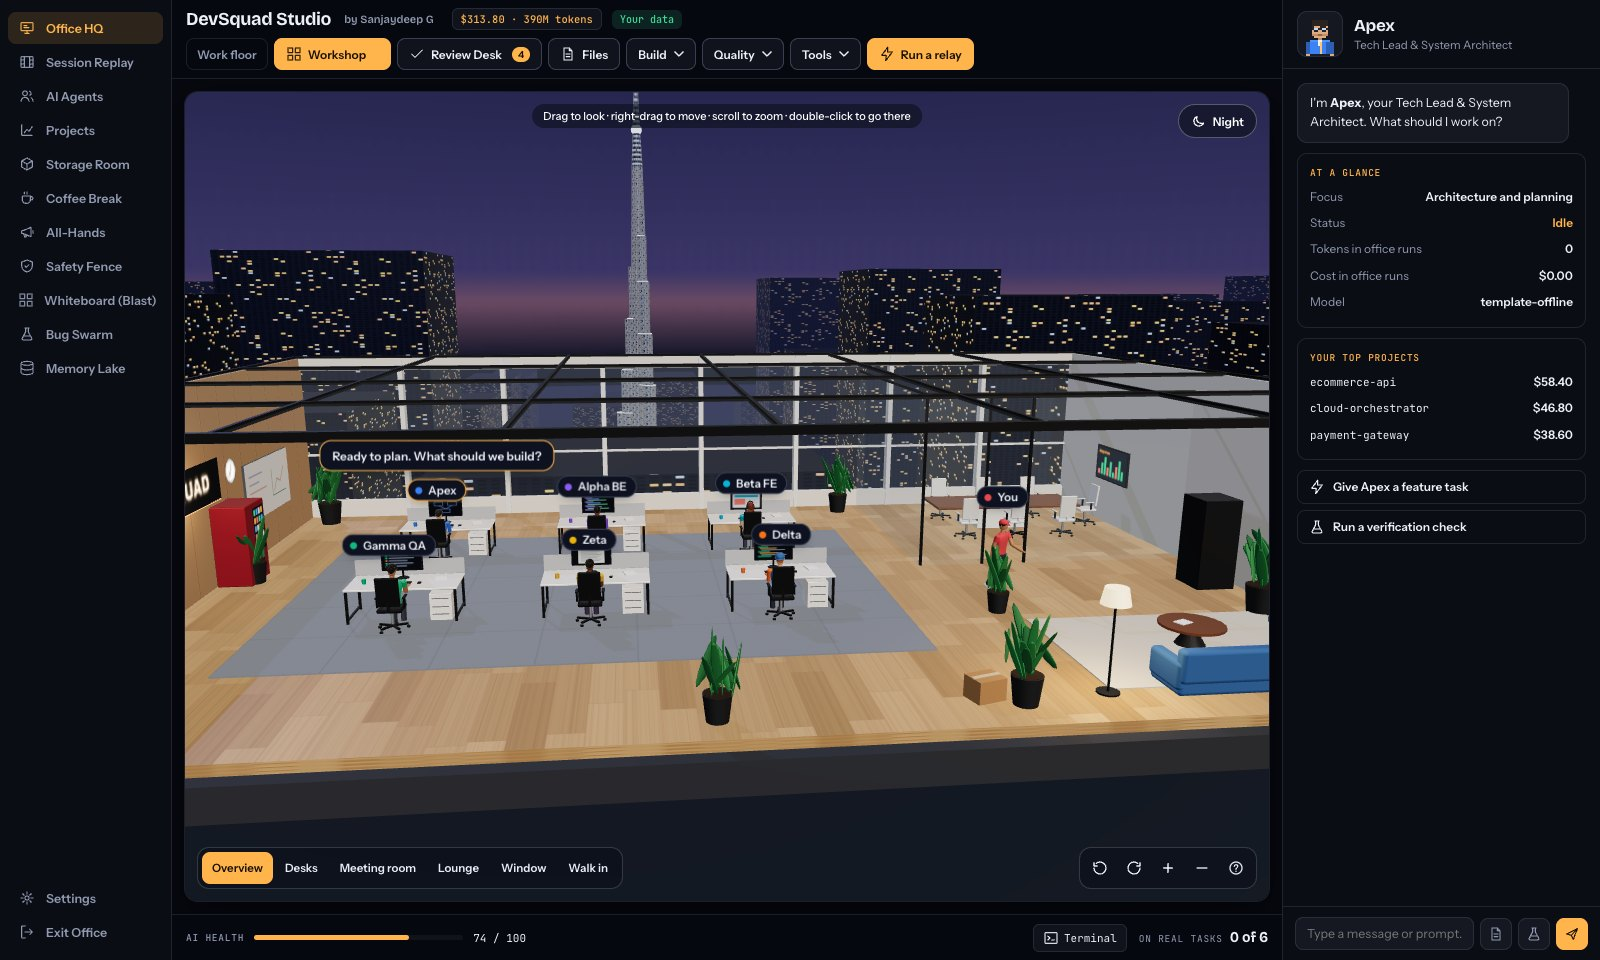
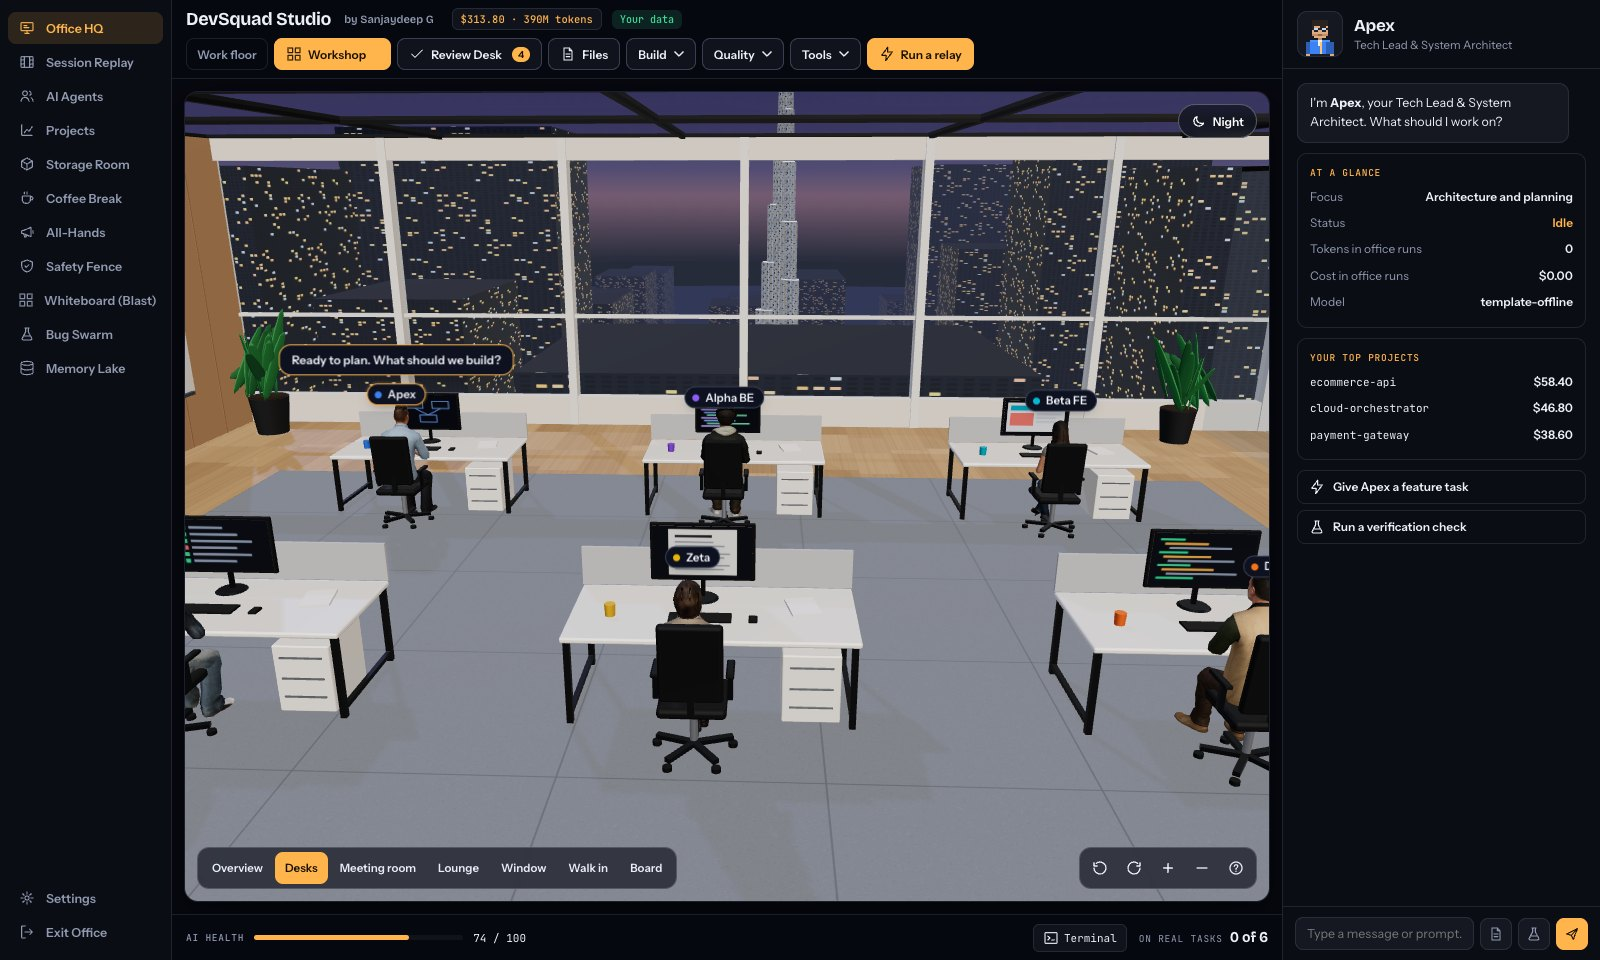
docs: screenshots and notes for real people, the wall board, desk cards and export

diff --git a/README.md b/README.md
@@ -10,7 +10,7 @@
 **[▶ Open Live Interactive Demo](https://sanjaydep1996.github.io/devsquad/)** *(runs 100% in-browser with live animated agents, Review Desk, and Whiteboard)*
 
 <p align="center">
-  <img src="docs/screenshot-office.jpg" alt="DevSquad Studio: the 3D office at night, with the team at their desks and the Burj Khalifa behind the glass" width="100%" />
+  <img src="docs/screenshot-office.jpg" alt="DevSquad Studio: the 3D office at night, with realistic, rigged people working at their desks and the city behind the glass" width="100%" />
 </p>
 
 ---
@@ -36,13 +36,26 @@ Current AI coding tools fall into two frustrating extremes:
 ## 🏢 Interactive Virtual Office & Features
 
 <p align="center">
-  <img src="docs/screenshot-office-day.jpg" alt="The same office in day mode, with Apex's status on the right and the Build, Quality and Tools menus in the topbar" width="100%" />
+  <img src="docs/screenshot-office-day.jpg" alt="The whole office in day mode, with the task board on the left wall and the Build, Quality and Tools menus in the topbar" width="100%" />
 </p>
 
-DevSquad combines real terminal execution with a **3D office** you can walk into (the **2D Pixel Office** is the fallback where WebGL isn't available). Jump to **Overview**, **Desks**, **Meeting room**, **Lounge**, **Window** or **Walk in** at eye level; drag to look, right-drag to move, scroll to zoom toward the pointer, and double-click a spot to go there or a person to see their face. With the office focused, **W A S D** or the arrow keys walk, **Q E** turn, **+ -** zoom and **1-6** pick a view. The team moves like people do: they keep right in the aisles, take coffee and whiteboard breaks, and **You** walk the floor checking in on whoever is working. The topbar keeps the everyday actions in view (**Workshop**, **Review Desk**, **Files**, **Run a relay**) and groups the other tools under **Build**, **Quality** and **Tools**:
+DevSquad combines real terminal execution with a **3D office** you can walk into (the **2D Pixel Office** is the fallback where WebGL isn't available). Jump to **Overview**, **Desks**, **Meeting room**, **Lounge**, **Window**, **Walk in** at eye level, or the **Board**; drag to look, right-drag to move, scroll to zoom toward the pointer, and double-click a spot to go there or a person to see their face. With the office focused, **W A S D** or the arrow keys walk, **Q E** turn, **+ -** zoom and **1-7** pick a view. The team moves like people do: they keep right in the aisles, take coffee and whiteboard breaks, and **You** walk the floor checking in on whoever is working.
 
-### 1. 🔍 Interactive Blast-Radius Visualizer (On the Office Whiteboard)
-Click directly on the **Whiteboard** on the office back wall or click **Build → Blast Radius** in the topbar to inspect AST dependencies:
+- **Real people**: the team are rigged, realistic people from Microsoft's Rocketbox library (MIT licence), with recorded motion for walking, sitting at a desk, typing, talking, listening, presenting, drinking coffee and reading a phone. Pick your own look in Settings. Where the models can't load, the drawn people are used instead.
+- **The task board is on the wall**: the Workshop's real board, as sticky notes on the whiteboard. When a card moves to In progress, its owner walks over to pick it up, then goes back to their desk to work on it.
+- **Click a desk or a person** for their status: their card, what's next, their last run, the ETA and any blockers, from the same recorded facts as the chat's status answers.
+
+<p align="center">
+  <img src="docs/screenshot-people.jpg" alt="A close-up of Apex, a rigged, realistic person, sitting at a desk" width="49%" />
+  <img src="docs/screenshot-desk-card.jpg" alt="Apex's desk card: what they're working on, their card, last run, ETA and blockers" width="49%" />
+</p>
+<p align="center">
+  <img src="docs/screenshot-board-wall.jpg" alt="The task board on the office wall, with cards as sticky notes in Backlog, In progress, Review Desk and Merged" width="100%" />
+</p>
+ The topbar keeps the everyday actions in view (**Workshop**, **Review Desk**, **Files**, **Run a relay**) and groups the other tools under **Build**, **Quality** and **Tools**:
+
+### 1. 🔍 Interactive Blast-Radius Visualizer
+Click **Build → Blast Radius** in the topbar to inspect AST dependencies:
 - **Direct Modifications (Amber)**: Code units being added or edited.
 - **Caller / Consumer Risks (Red)**: Existing files and functions in the repo that import or call the modified components.
 - **Active Test Coverage (Green)**: Verified test suites guarding the callers.
@@ -211,7 +224,8 @@ devsquad rollback <task_id>
 ### 2. 🔮 Flight Recorder & Incident Blackbox (Interactive RCA & Time Machine)
 - **Session ledger**: Every relay stage (plan, code, tests, healing, staging) is recorded to an append-only JSONL file in `.devsquad/flight_recorder/`.
 - **Time Machine Scrubber**: Step backward or forward through a run to see what each agent did and which files changed.
-- **Factual post-mortems**: A failed run gets a report built only from what was recorded: what failed, where, the last change before it, and the timeline. It says plainly when the root cause isn't known.
+- **Factual post-mortems**: Pick a run and write its post-mortem, built only from what was recorded: what failed, where, the test command, the files changed and the timeline. It says plainly when the root cause isn't known, and when nothing failed.
+- **Save as Markdown or PDF**: post-mortems, run replays (Session Replay) and plans (Workshop) download as `.md` or `.pdf`. The PDF writer uses the standard library only.
 
 ### 3. 🧬 Autonomous Git Bisect & Regression Teleporter
 - **Real binary search**: Runs your own test command on past commits, in a scratch git worktree, to find the first commit where it fails. Each commit has a time limit.
@@ -236,6 +250,7 @@ Click **Workshop** in the topbar. Everything below works in template mode and ge
 ### 2. 🗺 Plan, then build
 - Describe a feature. Apex proposes tasks with owners, risks and questions you should answer first. With attached files, Apex reads them.
 - Edit, remove or add tasks, then approve. Approving only adds cards to the board; nothing is built until you assign a card.
+- Save the plan as Markdown or PDF to share it.
 
 ### 3. 🏗 New app from one sentence
 - "Build me an inventory app with login" becomes a FastAPI + SQLite app with sign-up, login (salted PBKDF2), per-user records, a responsive page, six passing tests, a README and a first ADR.

diff --git a/CHANGELOG.md b/CHANGELOG.md
@@ -17,6 +17,10 @@ This project adheres to [Semantic Versioning](https://semver.org/spec/v2.0.0.htm
 
 - **Walk into the 3D office**: view presets (Overview, Desks, Meeting room, Lounge, Window, Walk in), turn and zoom buttons, zoom toward the pointer, right-drag to move, double-click to go to a spot or see a person's face, and keyboard controls (W A S D, Q E, + -, 1-6, R), with a help card.
 - **Session Replay of relay runs**: `/api/replay` replays a run step by step from the flight recorder, or from its log for older runs. Replay returned 404 before.
+- **Realistic, rigged people** in the 3D office: eight Microsoft Rocketbox avatars (MIT, notice in `devsquad/web/models/people/`) converted to glTF, with recorded walk, sit, typing, talk, listen, present, coffee and phone motion. You can pick your look in Settings. The drawn people remain the fallback.
+- **Task board on the office wall**: the Workshop board drawn as sticky notes; a card moving to In progress sends its owner to the board and back to their desk. New **Board** view (key 7).
+- **Desk card**: click a desk or a person for their card, next card, last run, ETA and blockers (`POST /api/v5/desk/<id>`).
+- **Export as Markdown or PDF**: plans, run replays and post-mortems (`GET /api/v5/export/<plan|replay|postmortem>/<id>.<md|pdf>`), with a standard-library PDF writer (`devsquad/core/export.py`).
 
 ### Changed
 - **More realistic people**: one smooth head shape with eyes that blink, eyelids, brows, nose, ears and mouth; hair that follows a real hairline; shaped torso, hands and shoes; fabric and skin materials; weight shifts and a hip sway when walking.
@@ -26,6 +30,7 @@ This project adheres to [Semantic Versioning](https://semver.org/spec/v2.0.0.htm
 - **Panels**: content is never squashed (the Roadmap's Mermaid graph was cut to one line); Review Desk, Settings and Visual QA fit on phones; Escape closes every panel.
 - **Tidier topbar**: the everyday actions stay in view and 16 other tools are grouped under Build, Quality and Tools menus (keyboard friendly). At 1280 to 1440 px the topbar is two rows instead of four or five, and on phones it is one row that scrolls sideways, so the office gets the space.
 - **README screenshots** now show the current 3D office (night and day) and the Workshop board.
+- **Flight Recorder shows real runs only**: pick a run, scrub its recorded steps and write its post-mortem from the record. The sample timeline and the made-up post-mortem are gone.
 - **Flaky tests are real**: the runner now runs your test command repeatedly with a different hash seed per run and reports actual results. The old simulation is kept only as a deprecated function that says it ran nothing.
 
 ## [0.1.0] - 2026-11-09
